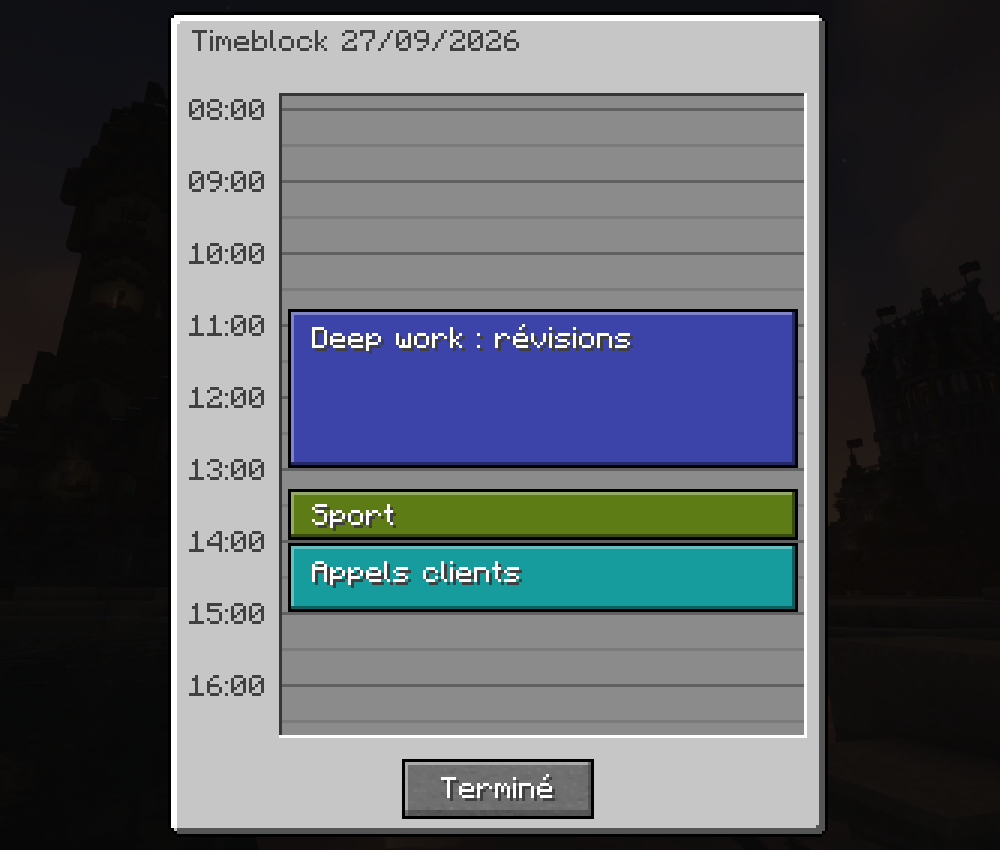
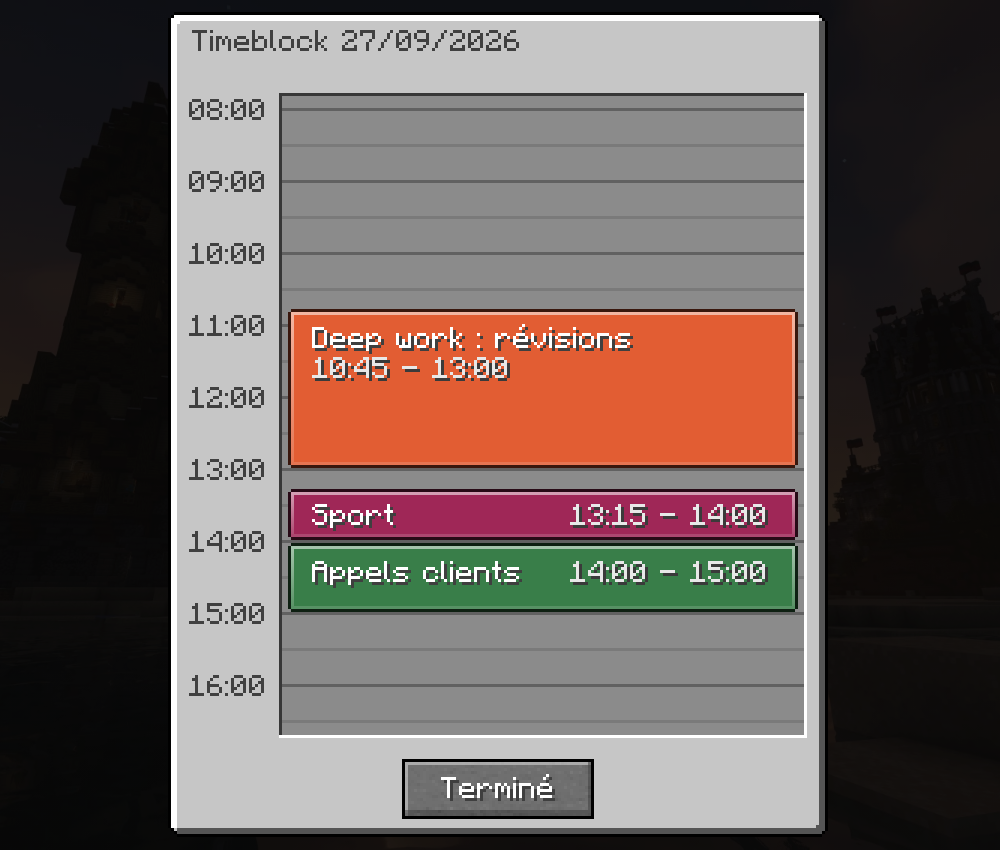
Timeblock : horaires de début et de fin toujours affichés dans les blocs
Sous le titre si le bloc est assez haut, sinon à droite du titre.

Claude-Session: https://claude.ai/code/session_019gCBZ2Dy19V3W7UiEquzyT

Changed region(s): [[0.279, 0.3365, 0.806, 0.7341]]

diff --git a/index.html b/index.html
@@ -1524,27 +1524,34 @@ function renderTimeblock() {
   ctx.rect(grid.x * S, grid.y * S, grid.w * S, grid.h * S);
   ctx.clip();
   for (let m = TB_START; m <= TB_END; m += 30) fr(grid.x, yOf(m), grid.w, 1, m % 60 ? 'rgba(0,0,0,0.12)' : 'rgba(0,0,0,0.3)');
-  const drawBlock = (debut, fin, title, sub, color) => {
+  const drawBlock = (debut, fin, title, color) => {
     const y1 = yOf(debut), h = yOf(fin) - y1;
     drawColorBlock(ctx, grid.x + 2, y1 + 1, grid.w - 4, h - 1, color, S);
     ctx.save();
     ctx.beginPath();
     ctx.rect((grid.x + 3) * S, (y1 + 2) * S, (grid.w - 6) * S, (h - 3) * S);
     ctx.clip();
-    // Marge intérieure : 4 px sous la bordure (moins pour un bloc trop petit, texte alors centré)
-    const ty = h >= 20 ? y1 + 7 : y1 + Math.floor((h - 8) / 2) + 1;
-    drawText(ctx, font, fitText(title, grid.w - 22), grid.x + 10, ty, '#FFFFFF', S, true);
-    if (sub && h >= 30) drawText(ctx, font, sub, grid.x + 10, ty + 10, '#E0E0E0', S, true);
+    // Horaires toujours affichés : sous le titre si le bloc est assez haut, sinon à sa droite.
+    const hours = `${fmtMin(debut)} - ${fmtMin(fin)}`, tx = grid.x + 10, maxW = grid.w - 22;
+    if (h >= 28) {
+      drawText(ctx, font, fitText(title, maxW), tx, y1 + 7, '#FFFFFF', S, true);
+      drawText(ctx, font, hours, tx, y1 + 17, '#E8E8E8', S, true);
+    } else {
+      const ty = h >= 20 ? y1 + 7 : y1 + Math.floor((h - 8) / 2) + 1;
+      const hw = textWidth(font, hours), t = fitText(title, maxW - hw - 8);
+      drawText(ctx, font, t, tx, ty, '#FFFFFF', S, true);
+      drawText(ctx, font, hours, tx + maxW - hw, ty, '#E8E8E8', S, true);
+    }
     ctx.restore();
   };
   const colorOf = (b, i) => TB_COLORS[(b.couleur ?? i) % TB_COLORS.length];
-  tbBlocks().forEach((b, i) => { if (!(tb.drag && tb.drag.block === b && tb.drag.moved)) drawBlock(b.debut, b.fin, b.titre, null, colorOf(b, i)); });
+  tbBlocks().forEach((b, i) => { if (!(tb.drag && tb.drag.block === b && tb.drag.moved)) drawBlock(b.debut, b.fin, b.titre, colorOf(b, i)); });
   const d = tb.drag;
   if (d && d.mode === 'create' && d.color == null) d.color = randomColor();
   if (d && d.moved) {   // bloc en cours de création / déplacement : on affiche ses horaires
     const [a, z] = d.mode === 'create' ? [Math.min(d.start, d.end), Math.max(d.start, d.end)] : [d.debut, d.fin];
     const color = d.mode === 'create' ? TB_COLORS[d.color] : colorOf(d.block, tbBlocks().indexOf(d.block));
-    drawBlock(a, z, d.mode === 'create' ? 'Nouveau bloc' : d.block.titre, `${fmtMin(a)} - ${fmtMin(z)}`, color);
+    drawBlock(a, z, d.mode === 'create' ? 'Nouveau bloc' : d.block.titre, color);
   }
   if (tb.date === formatDate(new Date())) {   // heure actuelle
     const now = new Date(), m = now.getHours() * 60 + now.getMinutes();
